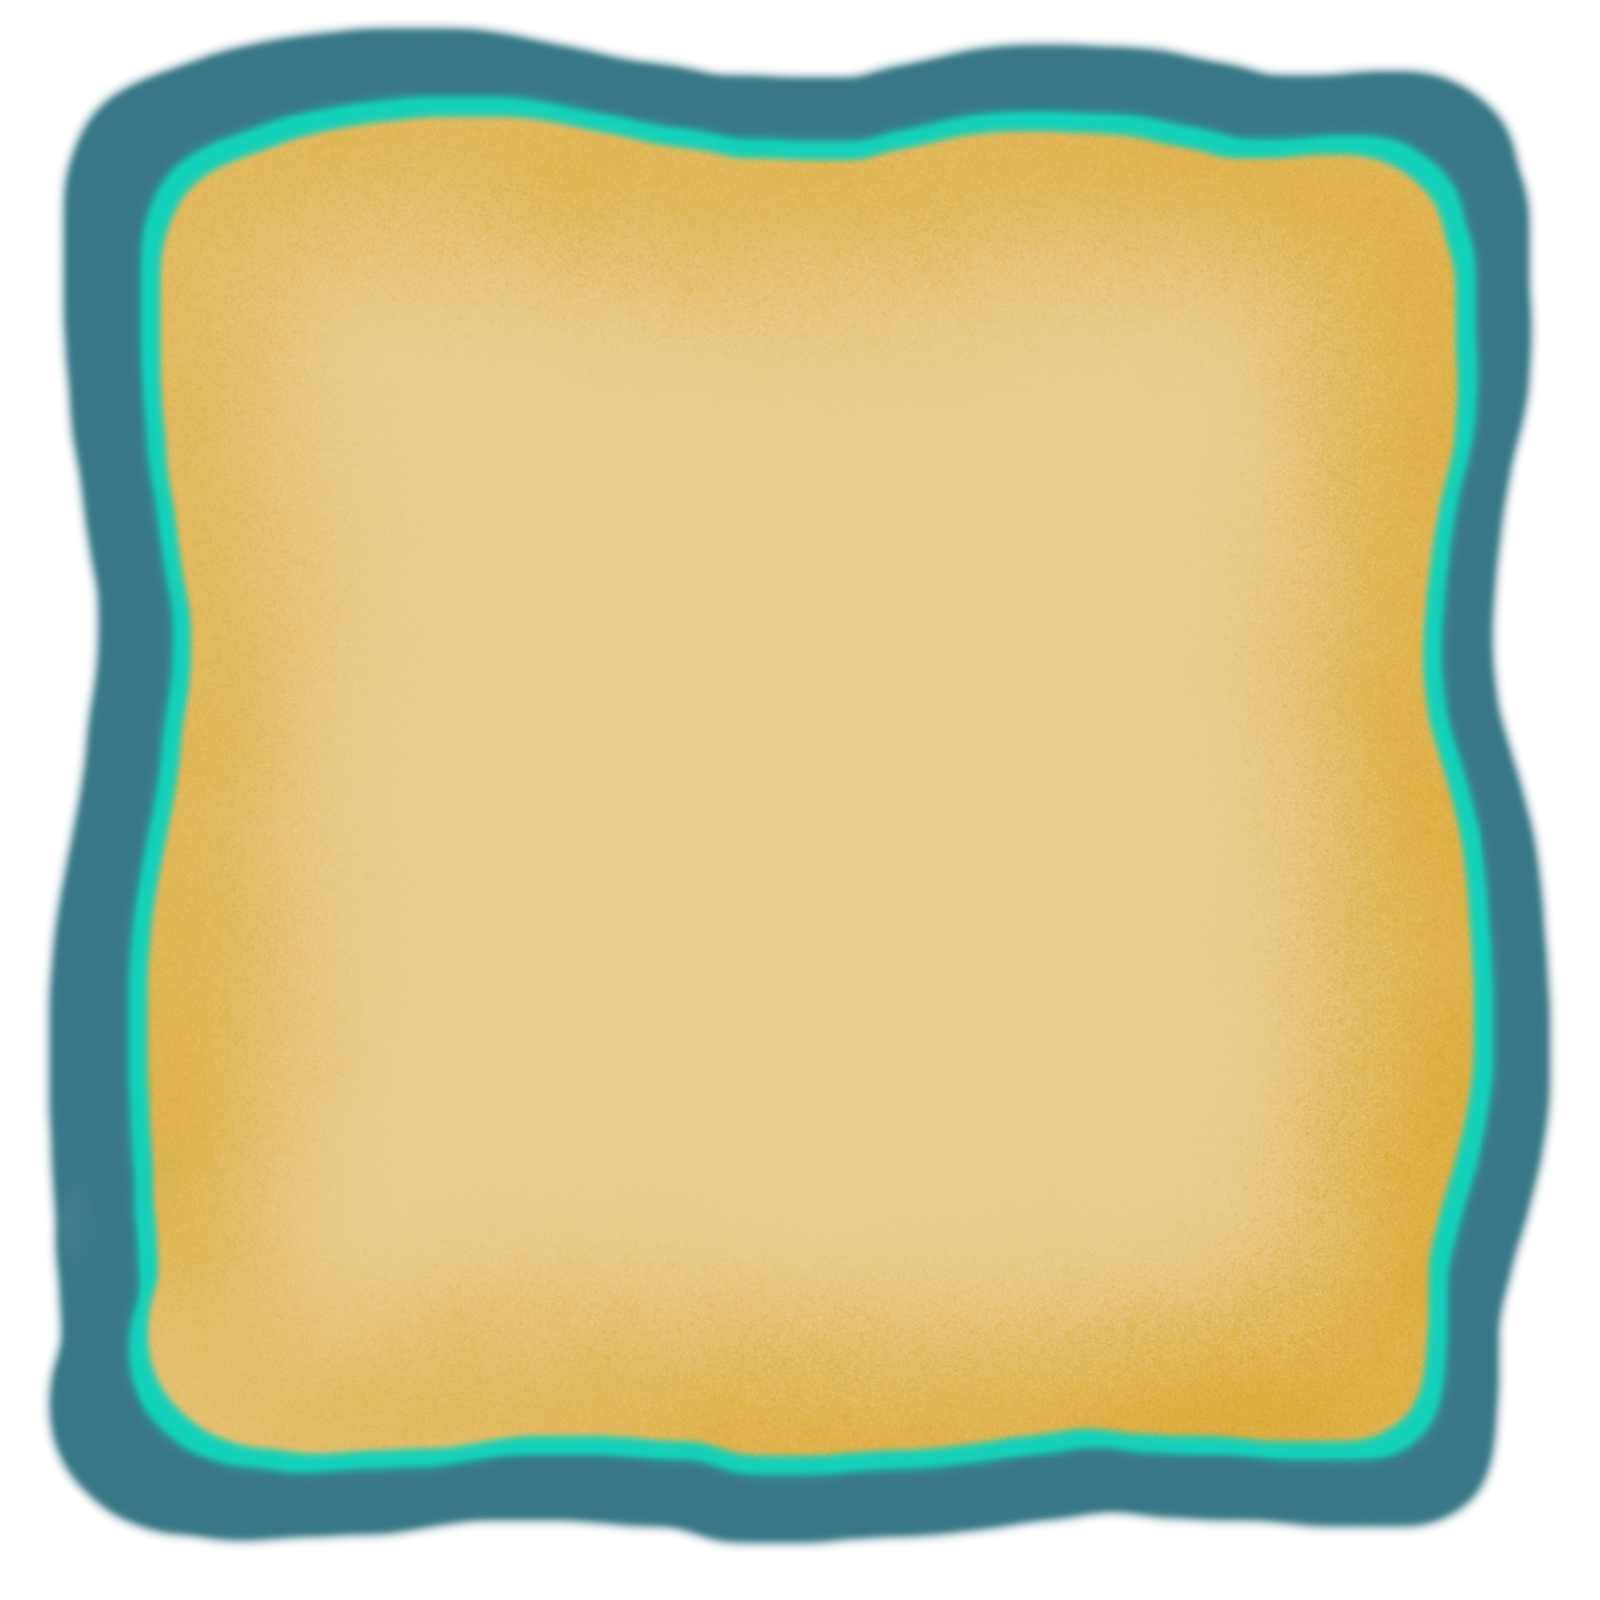
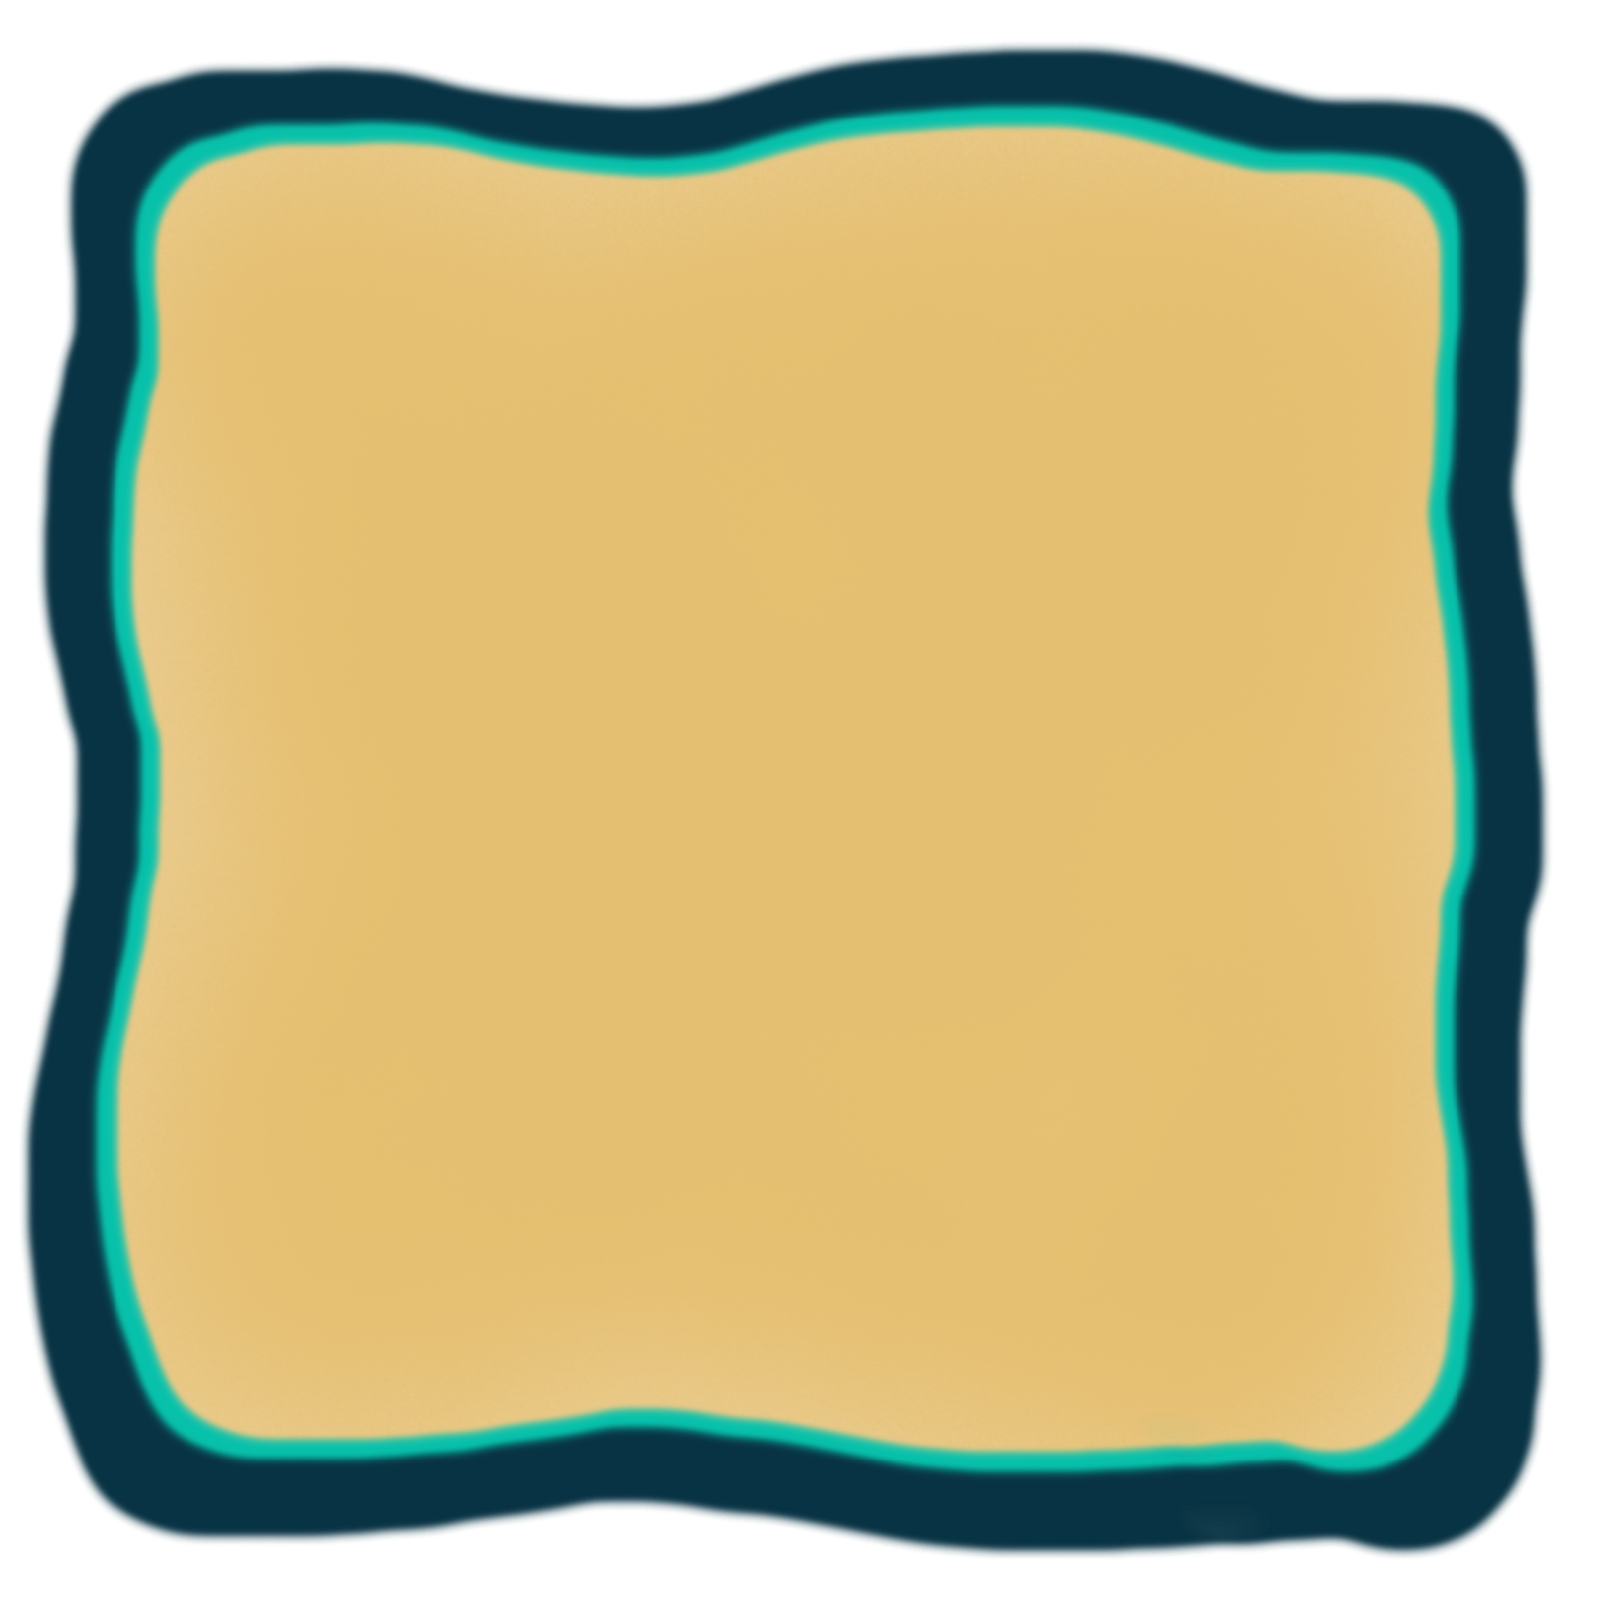
New graphic

diff --git a/src/client/game/Tile.tsx b/src/client/game/Tile.tsx
@@ -1,5 +1,5 @@
 import { MatrixItem } from './types';
-import { ChestIcon, GoldIcon } from '../UI/icons';
+import { GoldIcon } from '../UI/icons';
 
 interface TileProps {
   item: MatrixItem;
@@ -12,25 +12,36 @@ export const Tile = ({ item, onClick }: TileProps) => {
   const baseClasses = "w-10 h-10 sm:w-12 sm:h-12 flex items-center justify-center font-bold rounded-md select-none transition-all duration-75";
 
   const hiddenClasses = `
-    border-1 border-stone-700 border-dashed
+    border-1 border-b-2 border-green-700 border-dashed
     text-transparent
     cursor-pointer 
-    hover:bg-amber-500 hover:border-amber-600
+    hover:bg-green-400/60 hover:border-b-3 hover:border-green-900
     active:border-b-2 active:translate-y-[2px]
   `;
 
-  const borderColorClass = isTreasure ? 'border-emerald-600' : 'border-stone-600';
+  const borderColorClass = isTreasure ? 'border-emerald-700' : 'border-green-700';
 
-  const revealedClasses = `shadow-inner border-2 ${isTreasure ? 'bg-amber-100' : 'bg-transparent'} ${!isHighlighted ? borderColorClass : 'border-red-600/80'}`;
+  const revealedClasses = `shadow-inner border-1 ${isTreasure ? '' : 'bg-transparent'} ${!isHighlighted ? borderColorClass : 'border-red-600/80'}`;
 
   return (
     <div
       onClick={onClick}
       className={`${baseClasses} ${isRevealed ? revealedClasses : hiddenClasses}`}
+      style={{
+        backgroundImage: !isRevealed ? 'url("/images/tile.png")' : 'none',
+        backgroundSize: 'contain',
+        backgroundPosition: 'center',
+        backgroundRepeat: 'no-repeat',
+      }}
     >
       {isRevealed && (
         <>
-          {value === 'chest' && <ChestIcon />}
+          {value === 'chest' && <div className="w-full h-full" style={{
+            backgroundImage: 'url("/images/chest.png")',
+            backgroundSize: 'contain',
+            backgroundPosition: 'center',
+            backgroundRepeat: 'no-repeat',
+          }}></div>}
           {value === 'gold' && <GoldIcon />}
           {value !== 'chest' && value !== 'gold' && (
             <span className={`text-xl ${getValueColor()}`}>{value}</span>
@@ -45,5 +56,5 @@ const getValueColor = () => {
   // const num = parseInt(val);
   // if (num === 1) return "text-green-500 font-black";
   // if (num === 2) return "text-green-700 font-extrabold";
-  return "text-stone-900/60 font-bold";
+  return "text-green-900/60 font-bold";
 };

diff --git a/src/client/UI/Layout.tsx b/src/client/UI/Layout.tsx
@@ -7,9 +7,16 @@ interface LayoutProps {
 
 export const Layout = ({ children, className = '' }: LayoutProps) => {
   return (
-    <div className={`font-pirate flex flex-col items-center min-h-screen w-full max-h-screen bg-cyan-950 relative overflow-hidden ${className}`}>
+    <div className={`font-pirate flex flex-col items-center min-h-screen w-full max-h-screen  relative overflow-hidden ${className}`}
+         style={{
+           backgroundImage: 'url("/images/water.png")',
+           backgroundRepeat: 'repeat',
+           backgroundSize: '256px auto',
+           backgroundBlendMode: 'cover',
+         }}
+    >
 
-      <div className="absolute inset-0 opacity-10 bg-[radial-gradient(#fff_1px,transparent_1px)] [background-size:16px_16px] pointer-events-none"></div>
+      {/*<div className="absolute inset-0 opacity-10 bg-[radial-gradient(#fff_1px,transparent_1px)] [background-size:16px_16px] pointer-events-none"></div>*/}
       <div className="relative z-10 w-full flex flex-col items-center justify-center flex-grow">
         {children}
       </div>

diff --git a/src/client/game/Board.tsx b/src/client/game/Board.tsx
@@ -41,9 +41,11 @@ export const Board = ({ fullScreenBtn = false }: BoardProps) => {
 
   return (
     <div className="relative overflow-hidden">
-      <div className="min-w-fit flex flex-col items-center gap-4 py-4 px-2">
+      <div className="min-w-fit flex flex-col items-center gap-2 py-4 px-2">
 
-        <div className="relative z-10 flex w-full items-end justify-between gap-x-3 px-6">
+        <div className="relative z-10 flex w-full items-end justify-between gap-x-3 px-6 py-2 bg-amber-100/90 border-2 border-cyan-950
+          shadow-2xl
+          rounded-lg">
           <GameProgress
             moves={moves}
             treasuresFound={treasuresFound}
@@ -59,7 +61,7 @@ export const Board = ({ fullScreenBtn = false }: BoardProps) => {
 
         <div className="relative z-10 p-10">
           <img
-            src="/images/island.png"
+            src="/images/board.png"
             alt="Island map"
             className="absolute inset-0 w-full h-full object-contain pointer-events-none z-0"
           />

diff --git a/src/client/splash.html b/src/client/splash.html
@@ -8,6 +8,9 @@
     />
     <link rel="preload" as="image" href="/images/island.png" />
     <link rel="preload" as="image" href="/images/water.png" />
+    <link rel="preload" as="image" href="/images/water_pattern.png" />
+    <link rel="preload" as="image" href="/images/board.png" />
+    <link rel="preload" as="image" href="/images/tile2.png" />
     <title>devvit</title>
   </head>
   <body class="h-full">
